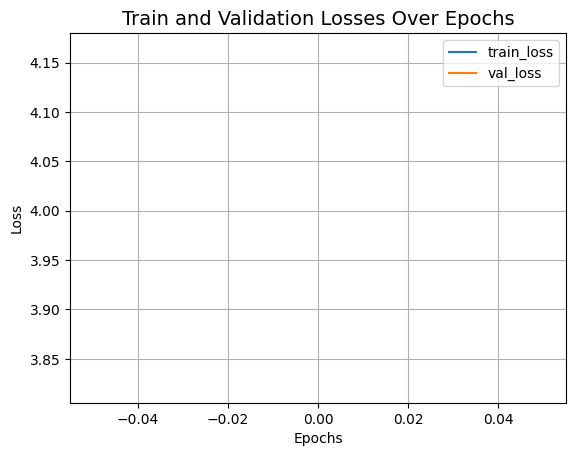
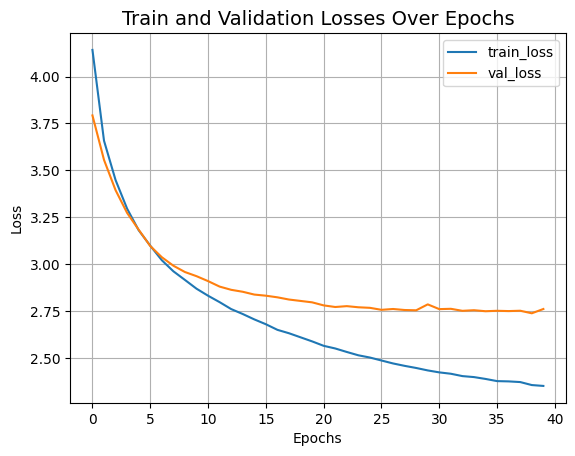
update

diff --git a/examples/vision/swin_transformers.py b/examples/vision/swin_transformers.py
@@ -64,7 +64,7 @@ num_patch_y = input_shape[1] // patch_size[1]
 
 learning_rate = 1e-3
 batch_size = 128
-num_epochs = 1
+num_epochs = 40
 validation_split = 0.1
 weight_decay = 0.0001
 label_smoothing = 0.1

diff --git a/examples/vision/md/swin_transformers.md b/examples/vision/md/swin_transformers.md
@@ -69,7 +69,7 @@ num_patch_y = input_shape[1] // patch_size[1]
 
 learning_rate = 1e-3
 batch_size = 128
-num_epochs = 1
+num_epochs = 40
 validation_split = 0.1
 weight_decay = 0.0001
 label_smoothing = 0.1
@@ -589,7 +589,86 @@ history = model.fit(
 
 <div class="k-default-codeblock">
 ```
- 352/352 ━━━━━━━━━━━━━━━━━━━━ 696s 2s/step - accuracy: 0.0507 - loss: 4.3958 - top-5-accuracy: 0.1788 - val_accuracy: 0.1318 - val_loss: 3.8225 - val_top-5-accuracy: 0.3820
+Epoch 1/40
+ 352/352 ━━━━━━━━━━━━━━━━━━━━ 644s 2s/step - accuracy: 0.0517 - loss: 4.3948 - top-5-accuracy: 0.1816 - val_accuracy: 0.1396 - val_loss: 3.7930 - val_top-5-accuracy: 0.3922
+Epoch 2/40
+ 352/352 ━━━━━━━━━━━━━━━━━━━━ 626s 2s/step - accuracy: 0.1606 - loss: 3.7267 - top-5-accuracy: 0.4209 - val_accuracy: 0.1946 - val_loss: 3.5560 - val_top-5-accuracy: 0.4862
+Epoch 3/40
+ 352/352 ━━━━━━━━━━━━━━━━━━━━ 634s 2s/step - accuracy: 0.2160 - loss: 3.4910 - top-5-accuracy: 0.5076 - val_accuracy: 0.2440 - val_loss: 3.3946 - val_top-5-accuracy: 0.5384
+Epoch 4/40
+ 352/352 ━━━━━━━━━━━━━━━━━━━━ 620s 2s/step - accuracy: 0.2599 - loss: 3.3266 - top-5-accuracy: 0.5628 - val_accuracy: 0.2730 - val_loss: 3.2732 - val_top-5-accuracy: 0.5812
+Epoch 5/40
+ 352/352 ━━━━━━━━━━━━━━━━━━━━ 634s 2s/step - accuracy: 0.2841 - loss: 3.2082 - top-5-accuracy: 0.5988 - val_accuracy: 0.2878 - val_loss: 3.1837 - val_top-5-accuracy: 0.6050
+Epoch 6/40
+ 352/352 ━━━━━━━━━━━━━━━━━━━━ 617s 2s/step - accuracy: 0.3049 - loss: 3.1199 - top-5-accuracy: 0.6262 - val_accuracy: 0.3110 - val_loss: 3.0970 - val_top-5-accuracy: 0.6292
+Epoch 7/40
+ 352/352 ━━━━━━━━━━━━━━━━━━━━ 620s 2s/step - accuracy: 0.3271 - loss: 3.0387 - top-5-accuracy: 0.6501 - val_accuracy: 0.3292 - val_loss: 3.0374 - val_top-5-accuracy: 0.6488
+Epoch 8/40
+ 352/352 ━━━━━━━━━━━━━━━━━━━━ 615s 2s/step - accuracy: 0.3454 - loss: 2.9764 - top-5-accuracy: 0.6679 - val_accuracy: 0.3480 - val_loss: 2.9921 - val_top-5-accuracy: 0.6598
+Epoch 9/40
+ 352/352 ━━━━━━━━━━━━━━━━━━━━ 617s 2s/step - accuracy: 0.3571 - loss: 2.9272 - top-5-accuracy: 0.6801 - val_accuracy: 0.3522 - val_loss: 2.9585 - val_top-5-accuracy: 0.6746
+Epoch 10/40
+ 352/352 ━━━━━━━━━━━━━━━━━━━━ 624s 2s/step - accuracy: 0.3658 - loss: 2.8809 - top-5-accuracy: 0.6924 - val_accuracy: 0.3562 - val_loss: 2.9364 - val_top-5-accuracy: 0.6784
+Epoch 11/40
+ 352/352 ━━━━━━━━━━━━━━━━━━━━ 634s 2s/step - accuracy: 0.3796 - loss: 2.8425 - top-5-accuracy: 0.7021 - val_accuracy: 0.3654 - val_loss: 2.9100 - val_top-5-accuracy: 0.6832
+Epoch 12/40
+ 352/352 ━━━━━━━━━━━━━━━━━━━━ 622s 2s/step - accuracy: 0.3884 - loss: 2.8113 - top-5-accuracy: 0.7103 - val_accuracy: 0.3740 - val_loss: 2.8808 - val_top-5-accuracy: 0.6948
+Epoch 13/40
+ 352/352 ━━━━━━━━━━━━━━━━━━━━ 621s 2s/step - accuracy: 0.3994 - loss: 2.7718 - top-5-accuracy: 0.7239 - val_accuracy: 0.3778 - val_loss: 2.8637 - val_top-5-accuracy: 0.6994
+Epoch 14/40
+ 352/352 ━━━━━━━━━━━━━━━━━━━━ 634s 2s/step - accuracy: 0.4072 - loss: 2.7491 - top-5-accuracy: 0.7271 - val_accuracy: 0.3848 - val_loss: 2.8533 - val_top-5-accuracy: 0.7002
+Epoch 15/40
+ 352/352 ━━━━━━━━━━━━━━━━━━━━ 614s 2s/step - accuracy: 0.4142 - loss: 2.7180 - top-5-accuracy: 0.7344 - val_accuracy: 0.3880 - val_loss: 2.8383 - val_top-5-accuracy: 0.7080
+Epoch 16/40
+ 352/352 ━━━━━━━━━━━━━━━━━━━━ 614s 2s/step - accuracy: 0.4231 - loss: 2.6918 - top-5-accuracy: 0.7392 - val_accuracy: 0.3934 - val_loss: 2.8323 - val_top-5-accuracy: 0.7072
+Epoch 17/40
+ 352/352 ━━━━━━━━━━━━━━━━━━━━ 617s 2s/step - accuracy: 0.4339 - loss: 2.6633 - top-5-accuracy: 0.7484 - val_accuracy: 0.3972 - val_loss: 2.8237 - val_top-5-accuracy: 0.7138
+Epoch 18/40
+ 352/352 ━━━━━━━━━━━━━━━━━━━━ 617s 2s/step - accuracy: 0.4388 - loss: 2.6436 - top-5-accuracy: 0.7506 - val_accuracy: 0.3984 - val_loss: 2.8119 - val_top-5-accuracy: 0.7144
+Epoch 19/40
+ 352/352 ━━━━━━━━━━━━━━━━━━━━ 610s 2s/step - accuracy: 0.4439 - loss: 2.6251 - top-5-accuracy: 0.7552 - val_accuracy: 0.4020 - val_loss: 2.8044 - val_top-5-accuracy: 0.7178
+Epoch 20/40
+ 352/352 ━━━━━━━━━━━━━━━━━━━━ 611s 2s/step - accuracy: 0.4540 - loss: 2.5989 - top-5-accuracy: 0.7652 - val_accuracy: 0.4012 - val_loss: 2.7969 - val_top-5-accuracy: 0.7246
+Epoch 21/40
+ 352/352 ━━━━━━━━━━━━━━━━━━━━ 618s 2s/step - accuracy: 0.4586 - loss: 2.5760 - top-5-accuracy: 0.7684 - val_accuracy: 0.4092 - val_loss: 2.7807 - val_top-5-accuracy: 0.7254
+Epoch 22/40
+ 352/352 ━━━━━━━━━━━━━━━━━━━━ 618s 2s/step - accuracy: 0.4607 - loss: 2.5624 - top-5-accuracy: 0.7724 - val_accuracy: 0.4158 - val_loss: 2.7721 - val_top-5-accuracy: 0.7232
+Epoch 23/40
+ 352/352 ━━━━━━━━━━━━━━━━━━━━ 634s 2s/step - accuracy: 0.4658 - loss: 2.5407 - top-5-accuracy: 0.7786 - val_accuracy: 0.4180 - val_loss: 2.7767 - val_top-5-accuracy: 0.7280
+Epoch 24/40
+ 352/352 ━━━━━━━━━━━━━━━━━━━━ 617s 2s/step - accuracy: 0.4744 - loss: 2.5233 - top-5-accuracy: 0.7840 - val_accuracy: 0.4164 - val_loss: 2.7707 - val_top-5-accuracy: 0.7300
+Epoch 25/40
+ 352/352 ━━━━━━━━━━━━━━━━━━━━ 615s 2s/step - accuracy: 0.4758 - loss: 2.5129 - top-5-accuracy: 0.7847 - val_accuracy: 0.4196 - val_loss: 2.7677 - val_top-5-accuracy: 0.7294
+Epoch 26/40
+ 352/352 ━━━━━━━━━━━━━━━━━━━━ 610s 2s/step - accuracy: 0.4853 - loss: 2.4954 - top-5-accuracy: 0.7863 - val_accuracy: 0.4188 - val_loss: 2.7571 - val_top-5-accuracy: 0.7362
+Epoch 27/40
+ 352/352 ━━━━━━━━━━━━━━━━━━━━ 610s 2s/step - accuracy: 0.4858 - loss: 2.4785 - top-5-accuracy: 0.7928 - val_accuracy: 0.4186 - val_loss: 2.7615 - val_top-5-accuracy: 0.7348
+Epoch 28/40
+ 352/352 ━━━━━━━━━━━━━━━━━━━━ 613s 2s/step - accuracy: 0.4889 - loss: 2.4691 - top-5-accuracy: 0.7945 - val_accuracy: 0.4208 - val_loss: 2.7561 - val_top-5-accuracy: 0.7350
+Epoch 29/40
+ 352/352 ━━━━━━━━━━━━━━━━━━━━ 634s 2s/step - accuracy: 0.4940 - loss: 2.4592 - top-5-accuracy: 0.7992 - val_accuracy: 0.4244 - val_loss: 2.7546 - val_top-5-accuracy: 0.7398
+Epoch 30/40
+ 352/352 ━━━━━━━━━━━━━━━━━━━━ 634s 2s/step - accuracy: 0.4989 - loss: 2.4391 - top-5-accuracy: 0.8025 - val_accuracy: 0.4180 - val_loss: 2.7861 - val_top-5-accuracy: 0.7302
+Epoch 31/40
+ 352/352 ━━━━━━━━━━━━━━━━━━━━ 610s 2s/step - accuracy: 0.4994 - loss: 2.4354 - top-5-accuracy: 0.8032 - val_accuracy: 0.4264 - val_loss: 2.7608 - val_top-5-accuracy: 0.7394
+Epoch 32/40
+ 352/352 ━━━━━━━━━━━━━━━━━━━━ 607s 2s/step - accuracy: 0.5011 - loss: 2.4238 - top-5-accuracy: 0.8090 - val_accuracy: 0.4292 - val_loss: 2.7625 - val_top-5-accuracy: 0.7384
+Epoch 33/40
+ 352/352 ━━━━━━━━━━━━━━━━━━━━ 634s 2s/step - accuracy: 0.5065 - loss: 2.4144 - top-5-accuracy: 0.8085 - val_accuracy: 0.4288 - val_loss: 2.7517 - val_top-5-accuracy: 0.7328
+Epoch 34/40
+ 352/352 ━━━━━━━━━━━━━━━━━━━━ 612s 2s/step - accuracy: 0.5094 - loss: 2.4099 - top-5-accuracy: 0.8093 - val_accuracy: 0.4260 - val_loss: 2.7550 - val_top-5-accuracy: 0.7390
+Epoch 35/40
+ 352/352 ━━━━━━━━━━━━━━━━━━━━ 612s 2s/step - accuracy: 0.5109 - loss: 2.3980 - top-5-accuracy: 0.8115 - val_accuracy: 0.4278 - val_loss: 2.7496 - val_top-5-accuracy: 0.7396
+Epoch 36/40
+ 352/352 ━━━━━━━━━━━━━━━━━━━━ 615s 2s/step - accuracy: 0.5178 - loss: 2.3868 - top-5-accuracy: 0.8139 - val_accuracy: 0.4296 - val_loss: 2.7519 - val_top-5-accuracy: 0.7404
+Epoch 37/40
+ 352/352 ━━━━━━━━━━━━━━━━━━━━ 618s 2s/step - accuracy: 0.5151 - loss: 2.3842 - top-5-accuracy: 0.8150 - val_accuracy: 0.4308 - val_loss: 2.7504 - val_top-5-accuracy: 0.7424
+Epoch 38/40
+ 352/352 ━━━━━━━━━━━━━━━━━━━━ 613s 2s/step - accuracy: 0.5169 - loss: 2.3798 - top-5-accuracy: 0.8159 - val_accuracy: 0.4360 - val_loss: 2.7522 - val_top-5-accuracy: 0.7464
+Epoch 39/40
+ 352/352 ━━━━━━━━━━━━━━━━━━━━ 618s 2s/step - accuracy: 0.5228 - loss: 2.3641 - top-5-accuracy: 0.8201 - val_accuracy: 0.4374 - val_loss: 2.7386 - val_top-5-accuracy: 0.7452
+Epoch 40/40
+ 352/352 ━━━━━━━━━━━━━━━━━━━━ 634s 2s/step - accuracy: 0.5232 - loss: 2.3633 - top-5-accuracy: 0.8212 - val_accuracy: 0.4266 - val_loss: 2.7614 - val_top-5-accuracy: 0.7410
 
 ```
 </div>
@@ -625,10 +704,10 @@ print(f"Test top 5 accuracy: {round(top_5_accuracy * 100, 2)}%")
 
 <div class="k-default-codeblock">
 ```
- 79/79 ━━━━━━━━━━━━━━━━━━━━ 26s 334ms/step - accuracy: 0.1366 - loss: 3.8147 - top-5-accuracy: 0.3848
-Test loss: 3.81
-Test accuracy: 13.85%
-Test top 5 accuracy: 39.15%
+ 79/79 ━━━━━━━━━━━━━━━━━━━━ 26s 325ms/step - accuracy: 0.4474 - loss: 2.7119 - top-5-accuracy: 0.7556
+Test loss: 2.7
+Test accuracy: 44.8%
+Test top 5 accuracy: 75.23%
 
 ```
 </div>
